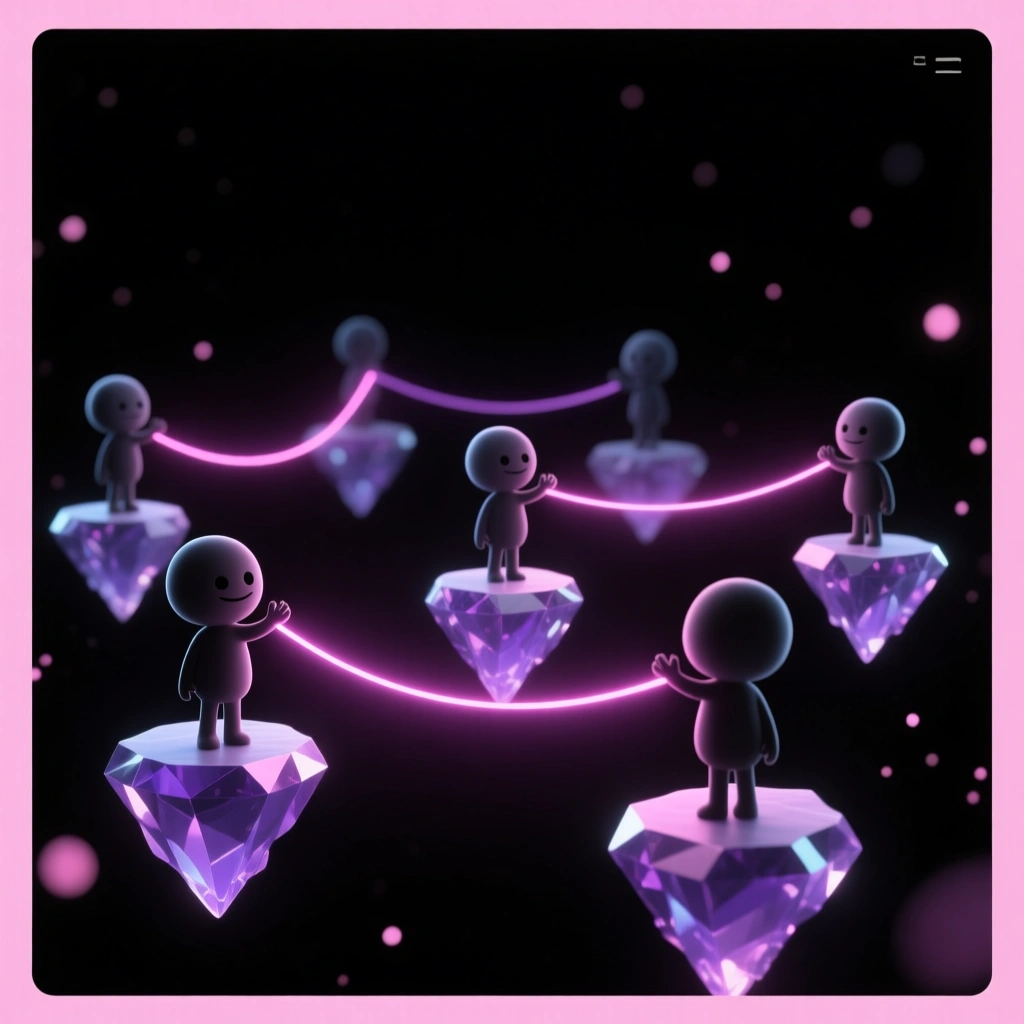
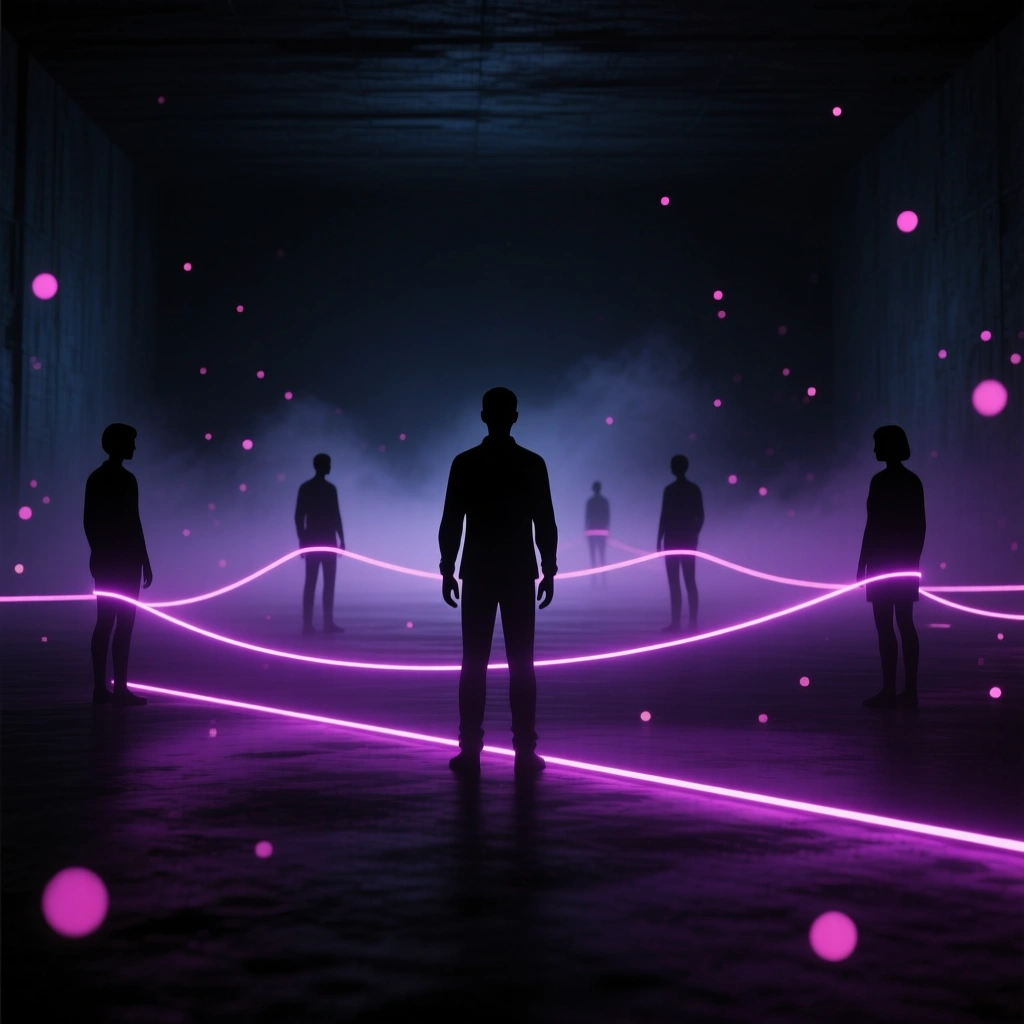
Social: photoreal cinematic backdrop + notification thumbnails
Replace cartoon backdrop with photoreal silhouettes-linked-by-neon-threads
to match hero-vista style. Add game-poster thumbnail to each notification
toast (Kiss Wall / River Row / Sky Leap), mirroring the real in-app push.

diff --git a/index.html b/index.html
@@ -192,7 +192,15 @@
     font-size: 15px;
     color: var(--text-on-brand);
   }
-  .notif-body { min-width: 0; }
+  .notif-body { min-width: 0; flex: 1; }
+  .notif-thumb {
+    flex-shrink: 0;
+    width: 46px;
+    height: 46px;
+    border-radius: 10px;
+    object-fit: cover;
+    border: 1px solid var(--border);
+  }
   .notif-text {
     font-size: 14px;
     line-height: 1.35;
@@ -345,6 +353,7 @@
           <div class="notif-text"><b>Mia</b> kissed your wall 💋</div>
           <div class="notif-time">now</div>
         </div>
+        <img class="notif-thumb" src="assets/posters/kiss-wall.png" alt="" aria-hidden="true" />
       </div>
       <div class="notif">
         <span class="notif-avatar" style="background:#7EC8E3;">R</span>
@@ -352,6 +361,7 @@
           <div class="notif-text"><b>Rae</b> just passed your score on River Row</div>
           <div class="notif-time">2m ago</div>
         </div>
+        <img class="notif-thumb" src="assets/posters/river-row.png" alt="" aria-hidden="true" />
       </div>
       <div class="notif">
         <span class="notif-avatar" style="background:#C7A8F0;">L</span>
@@ -359,6 +369,7 @@
           <div class="notif-text"><b>Leo</b> remixed your game</div>
           <div class="notif-time">5m ago</div>
         </div>
+        <img class="notif-thumb" src="assets/posters/sky-leap.png" alt="" aria-hidden="true" />
       </div>
       </div>
     </div>